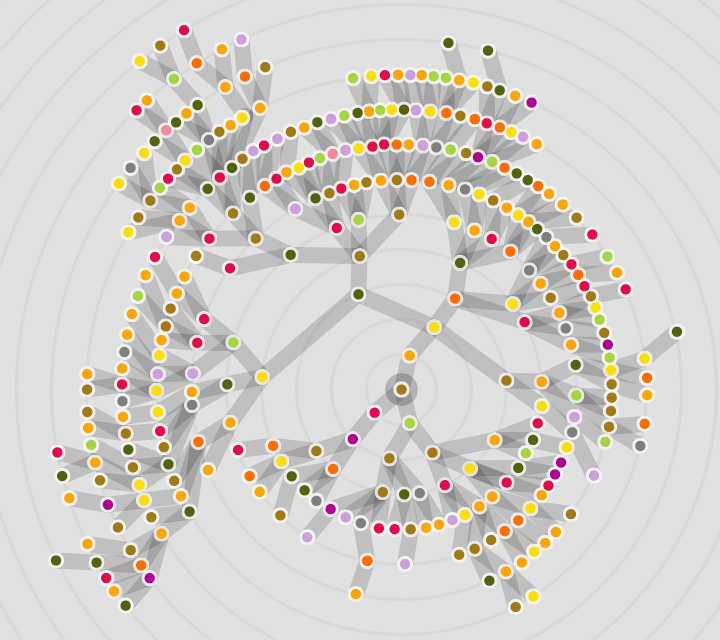
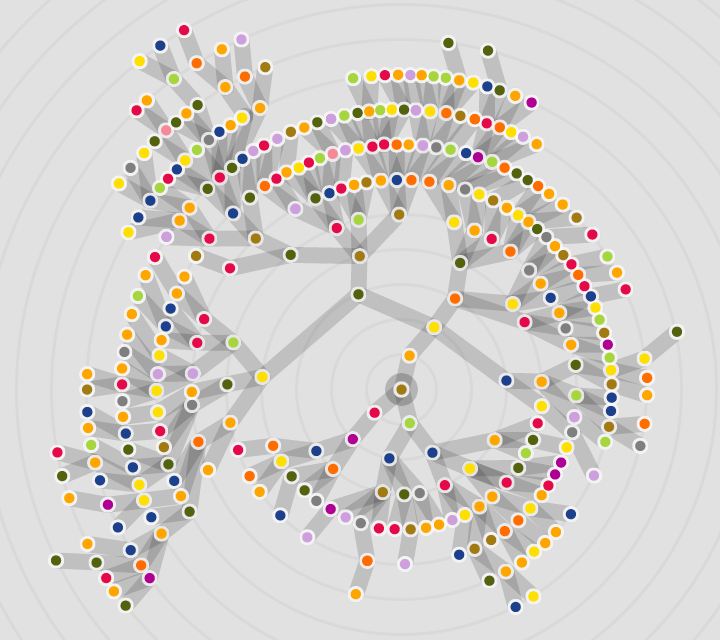
Added treeview legend and proper treeview

diff --git a/app/assets/stylesheets/application.css.scss b/app/assets/stylesheets/application.css.scss
@@ -253,8 +253,31 @@ body.pages-map_concept {
     }
   }
 }
-
-
+/* ===
+ * 
+ * TREEVIEW PAGE
+ * 
+ * ===
+ */
+body.works-tree {
+  main { padding: 0; min-height: 640px;
+    section#treeviewSidebar { width: 239px; float: left;
+      a.homeLink { 
+        display: block; border: 1px solid $telephoneRed; 
+        width: 200px; margin: 20px;
+        text-align: center;
+        text-transform: uppercase; font-size: 48px; color: $telephoneRed; 
+      }
+      div.treeviewInstructions { margin: 20px 20px 60px 20px; }
+      div#treeviewLegend { border: 1px solid black; width: 200px; margin: 20px;
+        img { margin: 10px; }
+      }
+    }
+    section#treeView { float: right; display: relative; cursor: crosshair;
+      map { cursor: crosshair; }
+    }
+  }
+}
 /* ===
  * 
  * WORKS PAGE
@@ -520,6 +543,8 @@ body.works-by_medium {
   padding: 10px; 
   font-size: 16px;
 }
+
+
 
 
 /*
